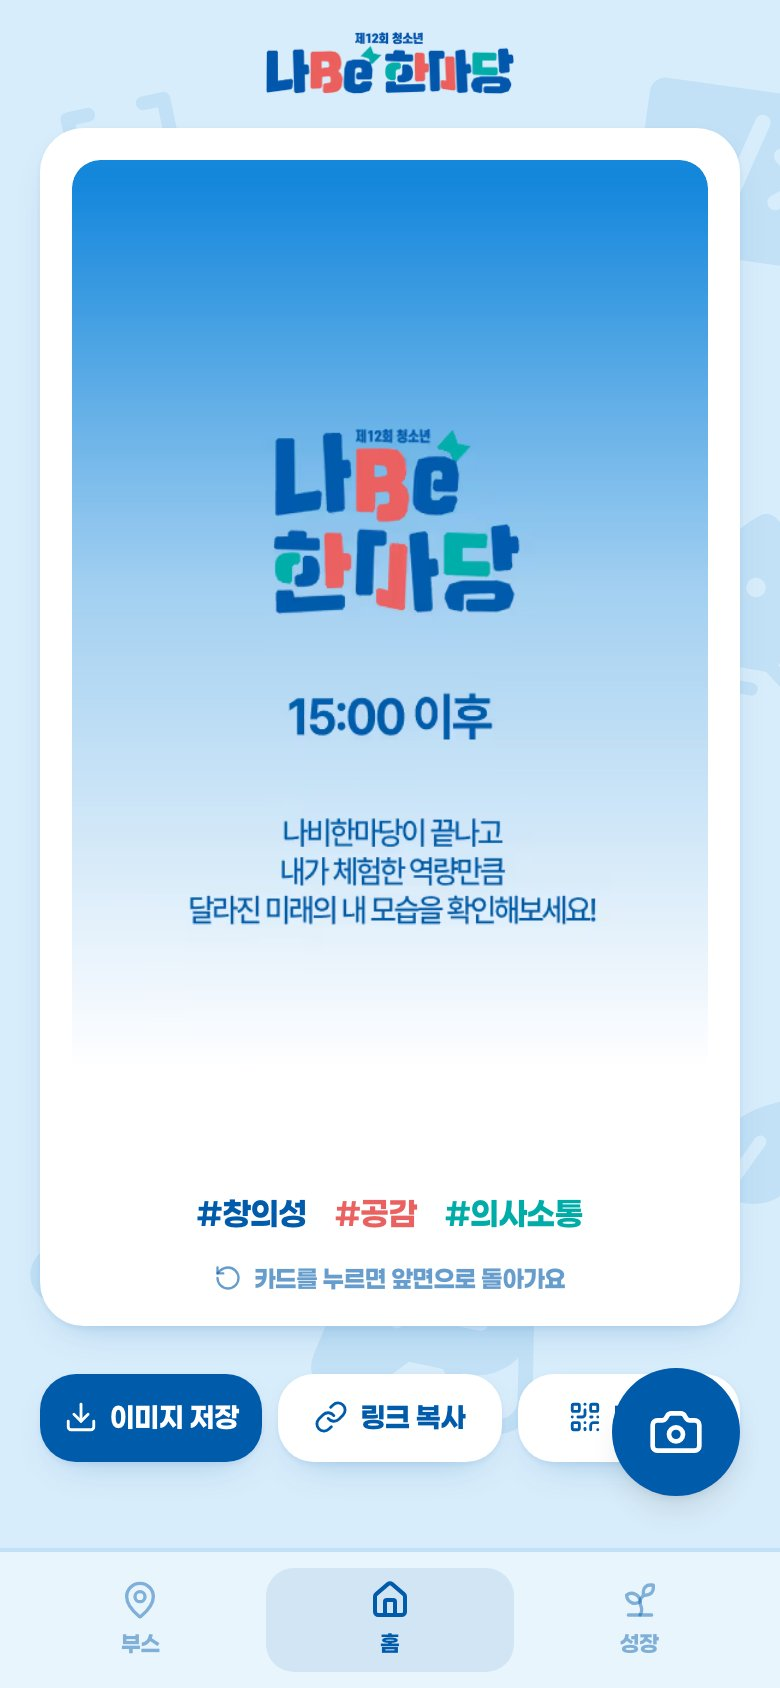
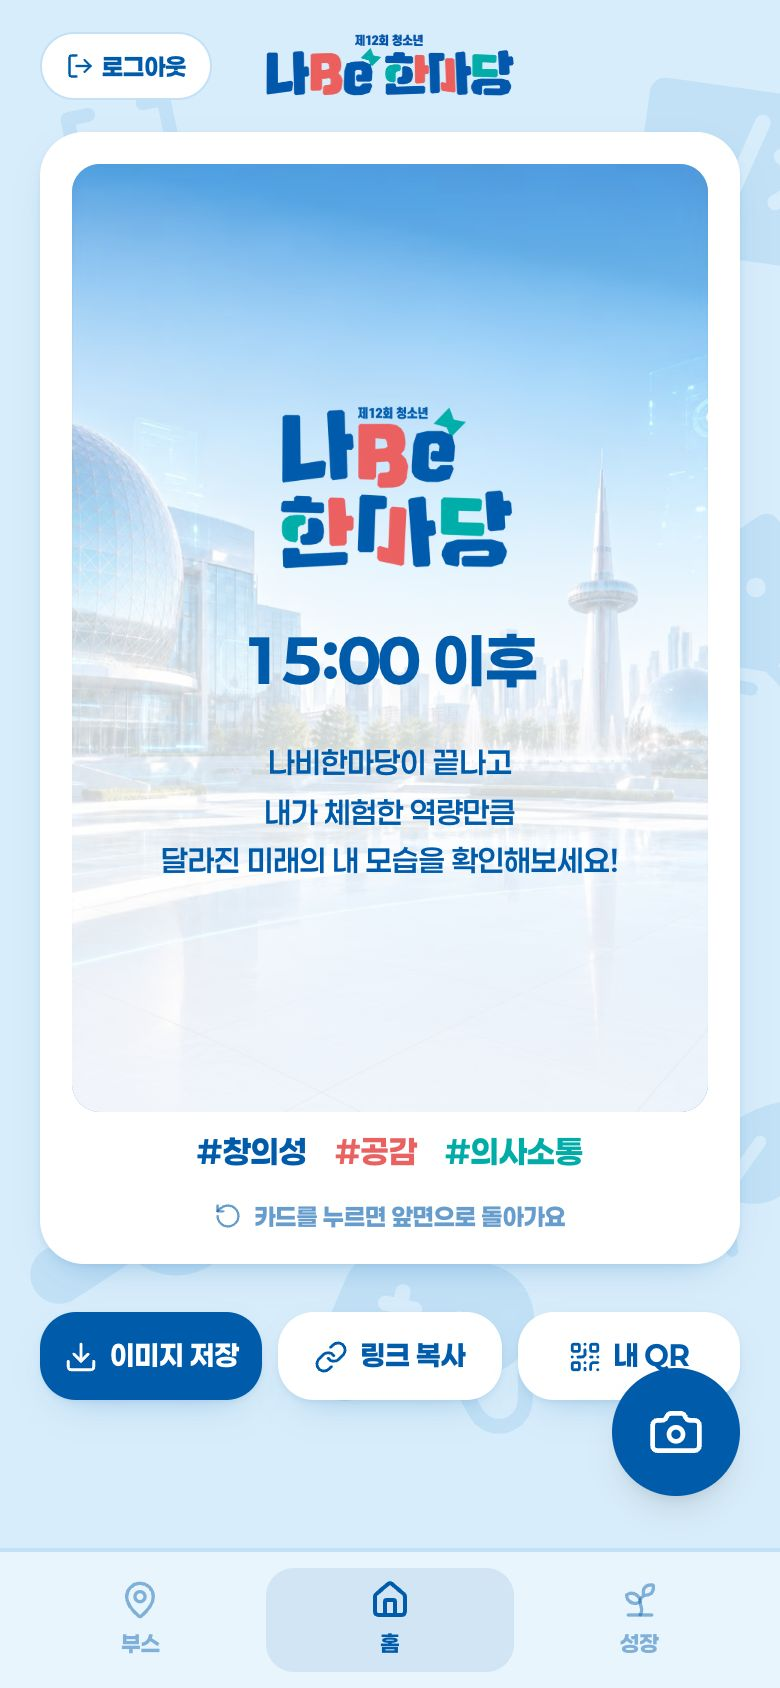
docs: 프로젝트 종료에 맞춰 README 정리 및 카드 뒷면 스토리보드 재촬영
- 루트 README: 프로젝트 소개, 화면 사진, 학생 흐름, 시스템 구조·카드 생성 과정, 로컬 실행, 문서 지도
- frontend README: mock 프로토타입 시절 내용을 현재 경로·명령으로 교체
- 스토리보드 카드 뒷면 2장(나비 그림 / 15:00 안내) 현재 UI로 교체

diff --git a/README.md b/README.md
@@ -1,31 +1,153 @@
-# i-be — 나Be한마당 페르소나 카드 (monorepo)
+# 나Be한마당 — AI 페르소나 카드 진로 탐색
 
-AI 기반 진로 탐색 경험. 기존 3개 저장소(`backend`, `frontend`, `docs`)를
-**커밋 히스토리를 보존한 채** 하나로 통합했다 (2026-07-01).
+> **진로는 정답을 찾는 시험이 아니라, 나를 써 내려가는 서사다.**
 
-## 구성
+2026 나Be한마당 진로박람회에서 운영한 참여형 진로 탐색 서비스.
+학생이 몇 가지 질문에 답하면 AI가 관심사와 성향을 해석해 **미래 페르소나(직업) 카드**를
+만들어 준다. 학생은 이 카드를 들고 행사장 체험부스를 돌며 QR로 방문을 인증하고,
+그 기록을 개인 페이지에 쌓아 간다.
 
-| 디렉터리 | 설명 | 스택 |
+> 행사가 끝나 운영을 종료한 저장소다. 코드와 문서는 기록용으로 남겨 둔다.
+
+## 화면
+
+<table>
+  <tr>
+    <td align="center"><img src="frontend/public/storyboard/s01-welcome.jpg" width="160" alt="웰컴"></td>
+    <td align="center"><img src="frontend/public/storyboard/s06-q1-open.jpg" width="160" alt="탐험 설문"></td>
+    <td align="center"><img src="frontend/public/storyboard/s11-home.jpg" width="160" alt="페르소나 카드"></td>
+    <td align="center"><img src="frontend/public/storyboard/s11-home-back.jpg" width="160" alt="카드 뒷면"></td>
+    <td align="center"><img src="frontend/public/storyboard/s13-growth.jpg" width="160" alt="성장"></td>
+  </tr>
+  <tr>
+    <td align="center">웰컴</td>
+    <td align="center">탐험 설문</td>
+    <td align="center">페르소나 카드</td>
+    <td align="center">카드 뒷면 (나비 그림)</td>
+    <td align="center">성장 · 역량 지도</td>
+  </tr>
+</table>
+
+화면 사진은 테스트 계정으로 찍었다. 전체 화면은 스토리보드 페이지(`/dev/storyboard`)에서
+흐름별로 볼 수 있다(원본: [`frontend/public/storyboard/`](frontend/public/storyboard/)).
+
+## 학생 흐름
+
+```
+가입·로그인 → 탐험 설문: 고정 질문 6개(낮) → AI 생성 질문 3개(밤)
+          → 사진 등록 → 페르소나 카드 발급
+          → 부스 · 홈 · 성장 탭
+                 └─ 부스 QR 스캔 → 방문 인증 → 성장 탭의 역량 지도에 반영
+```
+
+- **홈**: 내 페르소나 카드. 뒤집으면 부스 체험 결과로 그린 나비 그림이 나온다.
+- **부스**: 행사장 배치도와 나에게 어울리는 체험 추천.
+- **성장**: 참여한 부스 수와 역량 10개 레이더 차트, 방문 기록.
+- 카드는 공개 링크(`/p/[code]`)로 다른 사람에게 보여줄 수 있다.
+
+운영진 콘솔(`/operator`)과 관리자 콘솔(`/admin`)에서 좌석표·부스·방문·회원을 관리한다.
+
+## 시스템 구조
+
+```
+ 학생 · 운영진 · 관리자 (모바일/PC 브라우저)
+        │ HTTPS
+        ▼
+ Vercel — Next.js 16 (App Router)
+        │ fetch (JWT)
+        ▼
+ AWS Lightsail — Caddy(자동 HTTPS) → FastAPI 컨테이너
+        │   Router → Service → Repository / Adapter
+        │   + 카드 자동 공개 워커 (인-프로세스, DB 폴링)
+        │
+        ├──▶ Supabase Postgres   계정·설문·페르소나·카드·부스 방문
+        ├──▶ AWS S3 (비공개)     원본 사진·AI 인물·카드 이미지
+        ├──▶ OpenRouter          질문 생성·페르소나 해석 (LLM)
+        ├──▶ Vertex AI (Gemini)  10년 뒤 내 모습 이미지
+        └──▶ 나비(페인트팜) API   카드 뒷면 그림
+                    │
+ 브라우저 ◀── presigned URL로 S3 이미지를 직접 조회 (서버 미경유)
+```
+
+원칙은 **무거운 일은 위임한다**: 연산은 AI API, 데이터는 Supabase, 파일은 S3가 맡고
+Lightsail 서버는 이들을 엮는 일만 한다. 그래서 작은 인스턴스 하나로 운영했다.
+
+### 구성 요소
+
+| 영역 | 기술 | 역할 |
 |---|---|---|
-| [`backend/`](backend/) | API 서버 (인증·세션·페르소나 생성·카드 파이프라인) | FastAPI · asyncpg(Postgres/Supabase) · S3 · OpenRouter |
-| [`frontend/`](frontend/) | 학생 온보딩~페르소나 카드 발급 UI | Next.js 16 · TypeScript · Tailwind · Zustand |
-| [`docs/`](docs/) | 가이드·이슈 기록·분석 문서 | Markdown |
+| 프론트엔드 | Next.js 16 · TypeScript · Tailwind 4 · shadcn/ui · Zustand · Framer Motion | 학생 화면, 운영진·관리자 콘솔. Vercel 배포 |
+| 백엔드 | Python · FastAPI · asyncpg · uv | REST API + 카드 생성 워커. Docker + Caddy |
+| DB | Supabase Postgres | 스키마 3개로 권한 격리 — `pii`(학생 원본) · `generated`(설문·페르소나·카드) · `ops`(부스·방문·설정) |
+| 파일 | AWS S3 | `uploads/` 원본 사진 · `ai-images/` AI 인물 · `cards/` 최종 카드. presigned URL로만 노출 |
+| AI | OpenRouter · Vertex AI | 목적(purpose)별로 호출하고 모델 매핑은 환경변수로 분리 |
+| 인증 | JWT | 학생·운영진·관리자 토큰 분리, 조회는 운영진도·쓰기는 관리자만 |
+| CI/CD | GitHub Actions | `production`에 `backend/**` push → 테스트 → SSH 배포 |
 
-각 서브프로젝트의 상세 실행 방법은 해당 디렉터리의 `README.md`를 참고한다.
+### 카드가 만들어지는 과정
+
+```
+설문 완료 + 사진 업로드
+      │  워커가 DB를 폴링해 대상 선정 (별도 큐 없음)
+      ▼
+ 페르소나 문구 (OpenRouter, JSON 스키마)  ∥  10년 뒤 사진 (Vertex)
+      │
+      ▼
+ 카드 합성 → S3 저장 → DB 기록 → 학생 홈에 공개
+```
+
+- 사진이 부적합(얼굴 없음 등)하면 **폴백 캐릭터 카드**로 공개한다.
+- 429·5xx 같은 일시적 실패는 저장하지 않고 다음 폴링에서 다시 시도한다.
+- 관리자 검수 화면(`/admin/review`)에서 문구를 고치거나 다시 공개할 수 있다.
+
+### 백엔드 레이어
+
+```
+Router      HTTP 진입점 · 입력 검증 · 인증 가드
+Service     비즈니스 규칙 · 트랜잭션
+Repository  DB 쿼리
+Adapter     외부 시스템 — OpenRouter · S3 · DB 풀 · JWT
+```
+
+### 저장소 구성
+
+| 디렉터리 | 설명 |
+|---|---|
+| [`backend/`](backend/) | API 서버 — `app/routers`·`services`·`repositories`·`adapters`, `supabase/migrations`, `tests` |
+| [`frontend/`](frontend/) | 학생·운영진·관리자 UI — `app/`(라우트), `components/`, `store/`, `lib/` |
+| [`docs/`](docs/) | 가이드·이슈 기록·분석 문서 |
+
+더 자세한 내용(상태 머신, 인증, 개인정보, 부하 전략)은 [아키텍처 문서](docs/guides/architecture.md)를 본다.
+
+## 로컬 실행
+
+외부 서비스(Supabase·S3·OpenRouter) 키가 필요하다. 예시 파일을 복사해 값을 채운다.
+
+```bash
+# 백엔드 — http://localhost:8000/docs
+cd backend && cp .env.example .env && uv sync
+uv run uvicorn app.main:app --reload
+
+# 프론트엔드 — http://localhost:4000
+cd frontend && cp .env.local.example .env.local && npm install
+npm run dev
+```
+
+자세한 내용은 [개발 가이드](docs/guides/development.md).
 
 ## 문서
 
-[`docs/README.md`](docs/README.md)가 전체 지도다. 폴더는 **수명**으로 나뉜다.
+[`docs/README.md`](docs/README.md)가 전체 지도다.
 
-| 자주 보는 문서 | |
+| 문서 | 내용 |
 |---|---|
-| [로컬 개발](docs/guides/development.md) | 개발 환경 구성 |
-| [배포](docs/guides/deployment.md) | 배포·CD·운영 환경변수 |
+| [아키텍처](docs/guides/architecture.md) | 시스템 구조·데이터 저장·상태 머신 |
+| [배포](docs/guides/deployment.md) | 배포·CD·운영 환경변수·DB 마이그레이션 |
 | [운영 런북](docs/guides/operations.md) | 행사 중 장애 대응 |
-| [이슈 기록](docs/issues/README.md) | 삽질·인프라 판단 기록 |
+| [이슈 기록](docs/issues/README.md) | 개발 중 삽질과 인프라 판단 |
+| [프로젝트 비전](docs/notes/2026-03-19-프로젝트-비전.md) | 왜 이 프로젝트를 시작했는가 |
 
 ## 히스토리
 
-`backend`(production), `frontend`(main), `docs`(main)의 전체 커밋 히스토리를
-`git filter-repo`로 각 서브디렉터리 경로로 재작성해 병합했다.
-특정 파일 이력은 `git log --follow -- <path>` 로 추적할 수 있다.
+원래 `backend`·`frontend`·`docs` 3개 저장소였고, 2026-07-01에 커밋 히스토리를
+보존한 채(`git filter-repo`) 하나로 합쳤다. 특정 파일 이력은 `git log --follow -- <path>`.

diff --git a/frontend/README.md b/frontend/README.md
@@ -1,107 +1,34 @@
-# 나Be한마당 페르소나 카드
+# i-be frontend
 
-> **진로는 정답을 찾는 시험이 아니라, 나를 써 내려가는 서사다.**
-
-2026 나Be한마당을 위한 AI 기반 페르소나 카드 진로 탐색 경험 프론트엔드입니다.
-학생이 다양한 방식(대화, 이미지, 단어, 게임)으로 자신의 관심사와 취향을 탐색하고,
-AI가 이를 해석하여 **미래 페르소나 카드**를 발급합니다.
+나Be한마당 학생·운영진·관리자 UI. 프로젝트 소개는 [루트 README](../README.md).
 
 ## 기술 스택
 
-| 항목 | 기술 |
-|---|---|
-| 프레임워크 | Next.js 16 (App Router) |
-| 언어 | TypeScript 5 |
-| 스타일링 | Tailwind CSS 4 |
-| UI 컴포넌트 | shadcn/ui (base-nova) |
-| 상태 관리 | Zustand 5 |
-| 애니메이션 | Framer Motion 12 |
-| 차트 | Recharts 3 |
-| 아이콘 | Lucide React |
-| 폰트 | Pretendard Variable |
+Next.js 16 (App Router) · TypeScript · Tailwind CSS 4 · shadcn/ui · Zustand ·
+Framer Motion · Recharts. Vercel로 배포했다.
 
 ## 시작하기
 
 ```bash
-# 의존성 설치
+cp .env.local.example .env.local   # 백엔드 주소 등
 npm install
-
-# 개발 서버 실행
-npm run dev
-
-# 프로덕션 빌드
-npm run build
-
-# 프로덕션 서버 실행
-npm start
-
-# 린트 검사
+npm run dev      # http://localhost:4000
 npm run lint
+npm run build
+npm test         # vitest
 ```
 
-## 프로젝트 구조
+## 주요 경로
 
-```
-app/
-├── page.tsx                          # 웰컴 (랜딩)
-├── layout.tsx                        # 루트 레이아웃
-├── globals.css                       # 글로벌 스타일 + 테마 변수
-│
-├── explore/                          # 학생용 탐색 플로우
-│   ├── page.tsx                      # 입력 방식 선택
-│   ├── questions/page.tsx            # 질문 진행
-│   ├── interpreting/page.tsx         # 해석 중간 화면
-│   ├── result/page.tsx               # 결과 화면
-│   └── card/page.tsx                 # 카드 발급
-│
-├── profile/[id]/page.tsx             # 개인 페이지
-├── operator/                         # 운영자용 (placeholder)
-└── admin/                            # 관리자용 (placeholder)
+| 경로 | 대상 |
+|---|---|
+| `/signup` · `/login` | 가입·로그인 |
+| `/explore` | 사진 → 설문 → 페르소나 선택 → 카드 발급 |
+| `/(tabs)` | 완료 후 홈·부스·성향·프로필 탭 |
+| `/b/[code]` | 부스 QR 진입 → 방문 인증 |
+| `/p/[code]` | 공유용 개인 페이지 |
+| `/operator` · `/admin` | 운영진·관리자 콘솔 (`components/console/` 공유) |
+| `/dev` | 개발용 화면 |
 
-components/
-├── ui/                               # shadcn/ui 컴포넌트
-└── card/
-    └── PersonaCard.tsx               # 페르소나 카드 컴포넌트
-
-store/
-└── useSessionStore.ts                # Zustand 세션 상태 관리
-
-hooks/
-└── use-mobile.ts                     # 모바일 감지 훅
-
-lib/
-├── utils.ts                          # cn() 유틸리티
-└── mock/
-    ├── questions.ts                  # 모드별 mock 질문
-    └── personas.ts                   # mock 페르소나 결과
-
-docs/
-├── plan.md                           # 프로젝트 기획안
-└── dev-plan.md                       # 프론트엔드 개발 계획서
-```
-
-## 사용자 플로우
-
-```
-웰컴 → 입력 방식 선택 → 질문 진행 → 해석 중 → 결과 확인 → 카드 발급 → 개인 페이지
-```
-
-1. **웰컴** (`/`) — 행사 소개, 개인정보 동의
-2. **입력 방식 선택** (`/explore`) — 대화 / 이미지 / 단어 / 게임 중 선택
-3. **질문 진행** (`/explore/questions`) — 모드별 질문에 응답
-4. **해석 중간 화면** (`/explore/interpreting`) — 키워드 애니메이션 + 로딩
-5. **결과 화면** (`/explore/result`) — 페르소나명, 키워드, 관련 분야, 추천 부스
-6. **카드 발급** (`/explore/card`) — 페르소나 카드 생성 및 저장
-7. **개인 페이지** (`/profile/[id]`) — 체험 기록, 배지, 포인트, 추천
-
-## 현재 상태
-
-초기 프로토타입 단계로, 백엔드 연동 없이 **mock 데이터**로 전체 UX 흐름을 검증합니다.
-
-- [x] 학생용 전체 플로우 (웰컴 ~ 개인 페이지)
-- [ ] 운영자용 플로우 (QR 스캔 기반 기록)
-- [ ] 관리자용 대시보드
-- [ ] 실제 LLM API 연동
-- [ ] 이미지 생성 연동
-- [ ] QR 코드 생성 및 스캔
-- [ ] DB / 인증 연동
+전체 구조는 [아키텍처 문서](../docs/guides/architecture.md), 디자인 규칙은
+[디자인 시스템](../docs/guides/design-system.md).
